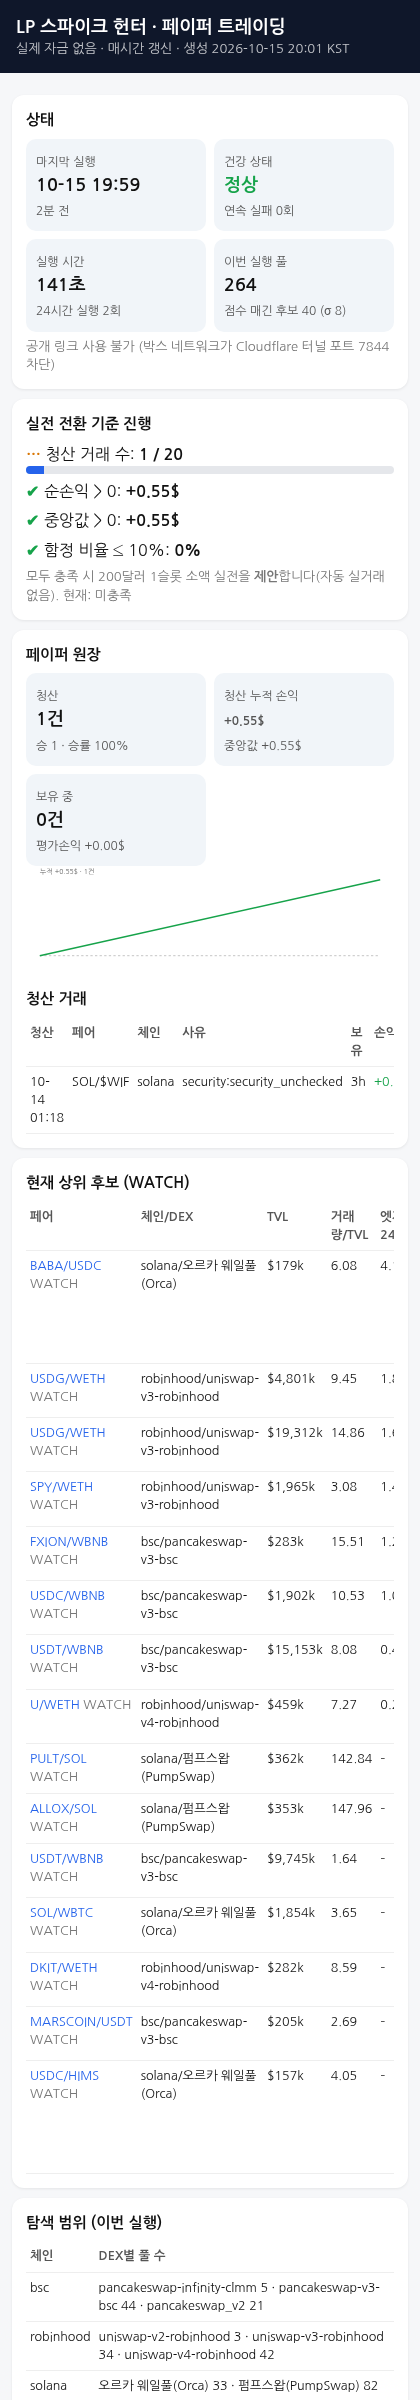
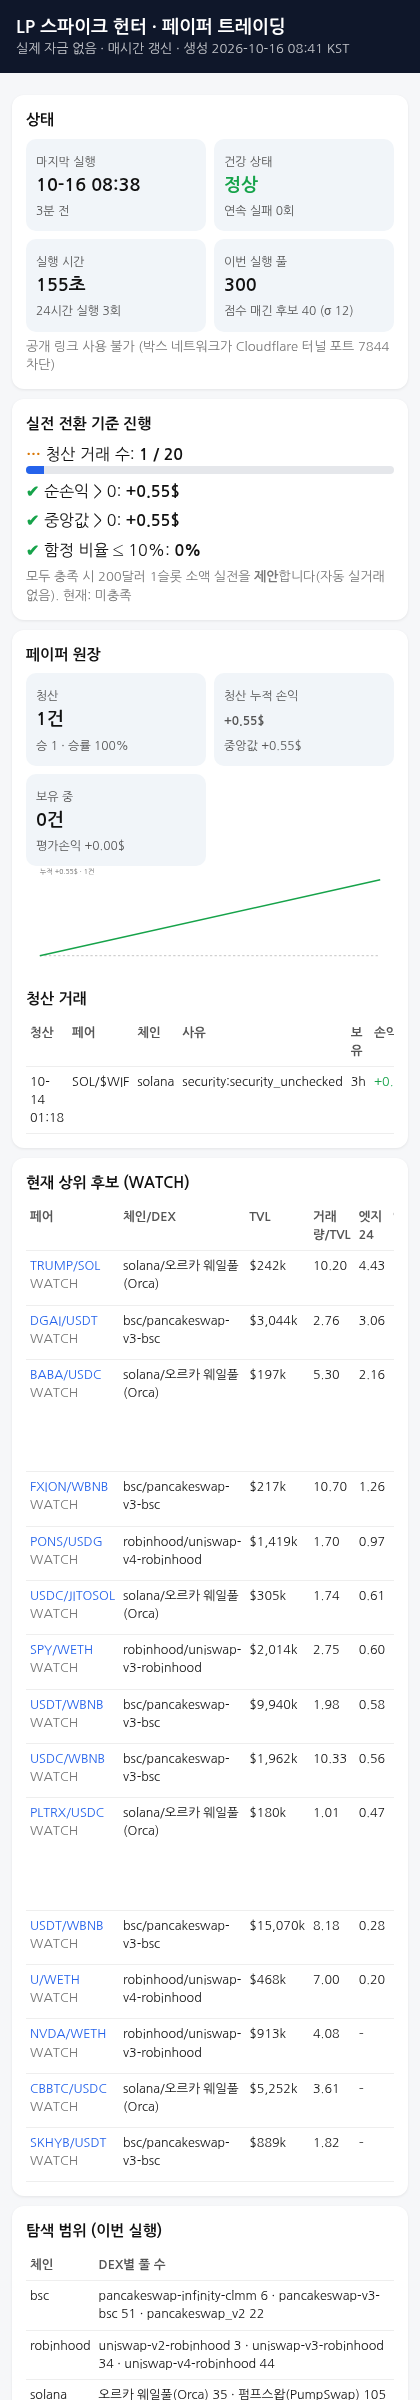
update 2026-10-16 08:41 KST

diff --git a/index.html b/index.html
@@ -12,12 +12,12 @@ th{color:#555;font-weight:600} .scroll{overflow-x:auto} .pos{color:#16a34a} .neg
 .bar{height:8px;background:#e5e7eb;border-radius:4px;overflow:hidden} .bar i{display:block;height:100%;background:#2563eb}
 .chart{width:100%;height:auto} a{color:#2563eb;text-decoration:none} .chg{color:#7c3aed;font-weight:600}
 </style></head><body>
-<header><h1>LP 스파이크 헌터 · 페이퍼 트레이딩</h1><div class="sub">실제 자금 없음 · 매시간 갱신 · 생성 2026-10-15 20:01 KST</div></header><main>
+<header><h1>LP 스파이크 헌터 · 페이퍼 트레이딩</h1><div class="sub">실제 자금 없음 · 매시간 갱신 · 생성 2026-10-16 08:41 KST</div></header><main>
 <div class="card"><h2>상태</h2><div class="grid">
-<div class="kpi"><span>마지막 실행</span><b>10-15 19:59</b><span>2분 전</span></div>
+<div class="kpi"><span>마지막 실행</span><b>10-16 08:38</b><span>3분 전</span></div>
 <div class="kpi"><span>건강 상태</span><b class="ok">정상</b><span>연속 실패 0회</span></div>
-<div class="kpi"><span>실행 시간</span><b>141초</b><span>24시간 실행 2회</span></div>
-<div class="kpi"><span>이번 실행 풀</span><b>264</b><span>점수 매긴 후보 40 (σ 8)</span></div>
+<div class="kpi"><span>실행 시간</span><b>155초</b><span>24시간 실행 3회</span></div>
+<div class="kpi"><span>이번 실행 풀</span><b>300</b><span>점수 매긴 후보 40 (σ 12)</span></div>
 </div><div class="muted" style="margin-top:6px">공개 링크 사용 불가 (박스 네트워크가 Cloudflare 터널 포트 7844 차단)</div></div>
 <div class="card"><h2>실전 전환 기준 진행</h2>
 <div style="margin:6px 0"><b class="warn">…</b> 청산 거래 수: <b>1 / 20</b><div class="bar"><i style="width:5%"></i></div></div>
@@ -35,26 +35,26 @@ th{color:#555;font-weight:600} .scroll{overflow-x:auto} .pos{color:#16a34a} .neg
 </table></div>
 </div>
 <div class="card"><h2>현재 상위 후보 (WATCH)</h2><div class="scroll"><table><tr><th>페어</th><th>체인/DEX</th><th>TVL</th><th>거래량/TVL</th><th>엣지24</th><th>엣지6</th><th>진입 안 하는 이유</th></tr>
-<tr><td><a href='https://www.geckoterminal.com/solana/pools/6EVgUURuvprazVdpd717E9uqruHcqRPbhRKDm5Czdidu'>BABA/USDC</a> <span class='muted'>WATCH</span></td><td>solana/오르카 웨일풀(Orca)</td><td>$179k</td><td>6.08</td><td>4.13</td><td>0.64</td><td><span class="tag">24h 엣지 부족 (edge24&lt;5)</span><span class="tag">6h 엣지 부족 (edge6&lt;5)</span><span class="tag">보안 플래그 (security:mintable|freezable|balance_mutable_authority|transfer_hook_upgradable|top10_holders=58%)</span><span class="tag">유동성 이력 부족(&lt;3h) (k_unsettled(&lt;3h liquidity history))</span><span class="tag">토큰-2022 위험 확장 (t22:BABA.pausableConfig|BABA.permanentDelegate)</span></td></tr>
-<tr><td><a href='https://www.geckoterminal.com/robinhood/pools/0x69bfaf19c9f377bb306a89aed9f6b07e2c1a8d9a'>USDG/WETH</a> <span class='muted'>WATCH</span></td><td>robinhood/uniswap-v3-robinhood</td><td>$4,801k</td><td>9.45</td><td>1.89</td><td>0.47</td><td><span class="tag">24h 엣지 부족 (edge24&lt;5)</span><span class="tag">6h 엣지 부족 (edge6&lt;5)</span><span class="tag">유동성 이력 부족(&lt;3h) (k_unsettled(&lt;3h liquidity history))</span></td></tr>
-<tr><td><a href='https://www.geckoterminal.com/robinhood/pools/0x52e65b17fb6e5ba00ed806f37afcd2daa50271ca'>USDG/WETH</a> <span class='muted'>WATCH</span></td><td>robinhood/uniswap-v3-robinhood</td><td>$19,312k</td><td>14.86</td><td>1.68</td><td>0.68</td><td><span class="tag">24h 엣지 부족 (edge24&lt;5)</span><span class="tag">6h 엣지 부족 (edge6&lt;5)</span><span class="tag">유동성 이력 부족(&lt;3h) (k_unsettled(&lt;3h liquidity history))</span></td></tr>
-<tr><td><a href='https://www.geckoterminal.com/robinhood/pools/0xddcbba3666f578e3f09516f21ff85bfee859ab5e'>SPY/WETH</a> <span class='muted'>WATCH</span></td><td>robinhood/uniswap-v3-robinhood</td><td>$1,965k</td><td>3.08</td><td>1.48</td><td>0.58</td><td><span class="tag">24h 엣지 부족 (edge24&lt;5)</span><span class="tag">6h 엣지 부족 (edge6&lt;5)</span><span class="tag">수수료&lt;비용 (fee24&lt;2x_cost)</span><span class="tag">유동성 이력 부족(&lt;3h) (k_unsettled(&lt;3h liquidity history))</span></td></tr>
-<tr><td><a href='https://www.geckoterminal.com/bsc/pools/0x02eda8dbc97a0c9adfbbfab589430d76a7c7f5b6'>FXION/WBNB</a> <span class='muted'>WATCH</span></td><td>bsc/pancakeswap-v3-bsc</td><td>$283k</td><td>15.51</td><td>1.23</td><td>0.85</td><td><span class="tag">24h 엣지 부족 (edge24&lt;5)</span><span class="tag">6h 엣지 부족 (edge6&lt;5)</span><span class="tag">수수료&lt;비용 (fee24&lt;2x_cost)</span><span class="tag">유동성 이력 부족(&lt;3h) (k_unsettled(&lt;3h liquidity history))</span></td></tr>
-<tr><td><a href='https://www.geckoterminal.com/bsc/pools/0xf2688fb5b81049dfb7703ada5e770543770612c4'>USDC/WBNB</a> <span class='muted'>WATCH</span></td><td>bsc/pancakeswap-v3-bsc</td><td>$1,902k</td><td>10.53</td><td>1.01</td><td>0.97</td><td><span class="tag">24h 엣지 부족 (edge24&lt;5)</span><span class="tag">6h 엣지 부족 (edge6&lt;5)</span><span class="tag">수수료&lt;비용 (fee24&lt;2x_cost)</span><span class="tag">유동성 이력 부족(&lt;3h) (k_unsettled(&lt;3h liquidity history))</span></td></tr>
-<tr><td><a href='https://www.geckoterminal.com/bsc/pools/0x172fcd41e0913e95784454622d1c3724f546f849'>USDT/WBNB</a> <span class='muted'>WATCH</span></td><td>bsc/pancakeswap-v3-bsc</td><td>$15,153k</td><td>8.08</td><td>0.49</td><td>0.34</td><td><span class="tag">24h 엣지 부족 (edge24&lt;5)</span><span class="tag">6h 엣지 부족 (edge6&lt;5)</span><span class="tag">수수료&lt;비용 (fee24&lt;2x_cost)</span><span class="tag">유동성 이력 부족(&lt;3h) (k_unsettled(&lt;3h liquidity history))</span></td></tr>
-<tr><td><a href='https://www.geckoterminal.com/robinhood/pools/0xa5d2fa75a050327b6a0e3a6020994fea5a9df413e0e031045399411e1616b2e3'>U/WETH</a> <span class='muted'>WATCH</span></td><td>robinhood/uniswap-v4-robinhood</td><td>$459k</td><td>7.27</td><td>0.24</td><td>0.15</td><td><span class="tag">24h 엣지 부족 (edge24&lt;5)</span><span class="tag">6h 엣지 부족 (edge6&lt;5)</span><span class="tag">보안 플래그 (security:security_unchecked)</span><span class="tag">수수료&lt;비용 (fee24&lt;2x_cost)</span><span class="tag">유동성 이력 부족(&lt;3h) (k_unsettled(&lt;3h liquidity history))</span></td></tr>
-<tr><td><a href='https://www.geckoterminal.com/solana/pools/2rpNBXob38sX7yuK5aQGt8u9vNjPxNVes4qmmPX7mwFf'>PULT/SOL</a> <span class='muted'>WATCH</span></td><td>solana/펌프스왑(PumpSwap)</td><td>$362k</td><td>142.84</td><td>–</td><td>–</td><td><span class="tag">변동성 데이터 없음</span><span class="tag">24h 엣지 부족 (edge24&lt;5)</span><span class="tag">6h 엣지 부족 (edge6&lt;5)</span><span class="tag">너무 신규</span></td></tr>
-<tr><td><a href='https://www.geckoterminal.com/solana/pools/4MJ9A8Uy9xW3szjXd9jMdwNLEr4EpR8v1Aiep55PVPBg'>ALLOX/SOL</a> <span class='muted'>WATCH</span></td><td>solana/펌프스왑(PumpSwap)</td><td>$353k</td><td>147.96</td><td>–</td><td>–</td><td><span class="tag">변동성 데이터 없음</span><span class="tag">24h 엣지 부족 (edge24&lt;5)</span><span class="tag">6h 엣지 부족 (edge6&lt;5)</span><span class="tag">너무 신규</span></td></tr>
-<tr><td><a href='https://www.geckoterminal.com/bsc/pools/0x36696169c63e42cd08ce11f5deebbcebae652050'>USDT/WBNB</a> <span class='muted'>WATCH</span></td><td>bsc/pancakeswap-v3-bsc</td><td>$9,745k</td><td>1.64</td><td>–</td><td>–</td><td><span class="tag">변동성 데이터 없음</span><span class="tag">24h 엣지 부족 (edge24&lt;5)</span><span class="tag">6h 엣지 부족 (edge6&lt;5)</span><span class="tag">유동성 이력 부족(&lt;3h) (k_unsettled(&lt;3h liquidity history))</span></td></tr>
-<tr><td><a href='https://www.geckoterminal.com/solana/pools/B5EwJVDuAauzUEEdwvbuXzbFFgEYnUqqS37TUM1c4PQA'>SOL/WBTC</a> <span class='muted'>WATCH</span></td><td>solana/오르카 웨일풀(Orca)</td><td>$1,854k</td><td>3.65</td><td>–</td><td>–</td><td><span class="tag">변동성 데이터 없음</span><span class="tag">24h 엣지 부족 (edge24&lt;5)</span><span class="tag">6h 엣지 부족 (edge6&lt;5)</span><span class="tag">유동성 이력 부족(&lt;3h) (k_unsettled(&lt;3h liquidity history))</span></td></tr>
-<tr><td><a href='https://www.geckoterminal.com/robinhood/pools/0x56ab58ffed0f9dc7baf1eb099d66199c99dae96114997cae0672b82cadef5451'>DKIT/WETH</a> <span class='muted'>WATCH</span></td><td>robinhood/uniswap-v4-robinhood</td><td>$282k</td><td>8.59</td><td>–</td><td>–</td><td><span class="tag">변동성 데이터 없음</span><span class="tag">24h 엣지 부족 (edge24&lt;5)</span><span class="tag">6h 엣지 부족 (edge6&lt;5)</span><span class="tag">유동성 이력 부족(&lt;3h) (k_unsettled(&lt;3h liquidity history))</span></td></tr>
-<tr><td><a href='https://www.geckoterminal.com/bsc/pools/0x14ca9d552ed2cf0d5dfd1f89bc6793a464e2ed16'>MARSCOIN/USDT</a> <span class='muted'>WATCH</span></td><td>bsc/pancakeswap-v3-bsc</td><td>$205k</td><td>2.69</td><td>–</td><td>–</td><td><span class="tag">변동성 데이터 없음</span><span class="tag">24h 엣지 부족 (edge24&lt;5)</span><span class="tag">6h 엣지 부족 (edge6&lt;5)</span><span class="tag">보안 플래그 (security:security_unchecked)</span><span class="tag">유동성 이력 부족(&lt;3h) (k_unsettled(&lt;3h liquidity history))</span></td></tr>
-<tr><td><a href='https://www.geckoterminal.com/solana/pools/7iqWWNjubSTjmWXk9eYJViDLZjBN2KjrYt5Z9j8n8exQ'>USDC/HIMS</a> <span class='muted'>WATCH</span></td><td>solana/오르카 웨일풀(Orca)</td><td>$157k</td><td>4.05</td><td>–</td><td>–</td><td><span class="tag">변동성 데이터 없음</span><span class="tag">24h 엣지 부족 (edge24&lt;5)</span><span class="tag">6h 엣지 부족 (edge6&lt;5)</span><span class="tag">보안 플래그 (security:mintable|freezable|balance_mutable_authority|transfer_hook_upgradable|top10_holders=66%)</span><span class="tag">유동성 이력 부족(&lt;3h) (k_unsettled(&lt;3h liquidity history))</span><span class="tag">토큰-2022 위험 확장 (t22:HIMS.pausableConfig|HIMS.permanentDelegate)</span></td></tr>
+<tr><td><a href='https://www.geckoterminal.com/solana/pools/Ckp1kwZqosaLU1h3zWtuaMBubyWM7LX3cxYezRVin7p2'>TRUMP/SOL</a> <span class='muted'>WATCH</span></td><td>solana/오르카 웨일풀(Orca)</td><td>$242k</td><td>10.20</td><td>4.43</td><td>14.71</td><td><span class="tag">24h 엣지 부족 (edge24&lt;5)</span><span class="tag">보안 플래그 (security:top10_holders=88%)</span><span class="tag">유동성 이력 부족(&lt;3h) (k_unsettled(&lt;3h liquidity history))</span></td></tr>
+<tr><td><a href='https://www.geckoterminal.com/bsc/pools/0x0e6e1f47c64f517fc9dc35698718c7dfc708d534'>DGAI/USDT</a> <span class='muted'>WATCH</span></td><td>bsc/pancakeswap-v3-bsc</td><td>$3,044k</td><td>2.76</td><td>3.06</td><td>2.42</td><td><span class="tag">24h 엣지 부족 (edge24&lt;5)</span><span class="tag">6h 엣지 부족 (edge6&lt;5)</span><span class="tag">보안 플래그 (security:mintable)</span><span class="tag">수수료&lt;비용 (fee24&lt;2x_cost)</span><span class="tag">유동성 이력 부족(&lt;3h) (k_unsettled(&lt;3h liquidity history))</span></td></tr>
+<tr><td><a href='https://www.geckoterminal.com/solana/pools/6EVgUURuvprazVdpd717E9uqruHcqRPbhRKDm5Czdidu'>BABA/USDC</a> <span class='muted'>WATCH</span></td><td>solana/오르카 웨일풀(Orca)</td><td>$197k</td><td>5.30</td><td>2.16</td><td>0.29</td><td><span class="tag">24h 엣지 부족 (edge24&lt;5)</span><span class="tag">6h 엣지 부족 (edge6&lt;5)</span><span class="tag">보안 플래그 (security:mintable|freezable|balance_mutable_authority|transfer_hook_upgradable|top10_holders=58%)</span><span class="tag">수수료&lt;비용 (fee24&lt;2x_cost)</span><span class="tag">유동성 이력 부족(&lt;3h) (k_unsettled(&lt;3h liquidity history))</span><span class="tag">토큰-2022 위험 확장 (t22:BABA.pausableConfig|BABA.permanentDelegate)</span></td></tr>
+<tr><td><a href='https://www.geckoterminal.com/bsc/pools/0x02eda8dbc97a0c9adfbbfab589430d76a7c7f5b6'>FXION/WBNB</a> <span class='muted'>WATCH</span></td><td>bsc/pancakeswap-v3-bsc</td><td>$217k</td><td>10.70</td><td>1.26</td><td>0.35</td><td><span class="tag">24h 엣지 부족 (edge24&lt;5)</span><span class="tag">6h 엣지 부족 (edge6&lt;5)</span><span class="tag">수수료&lt;비용 (fee24&lt;2x_cost)</span><span class="tag">유동성 이력 부족(&lt;3h) (k_unsettled(&lt;3h liquidity history))</span></td></tr>
+<tr><td><a href='https://www.geckoterminal.com/robinhood/pools/0x4be9657ec9002e528f4f17a5c43edc525a07f888f7b180c2afbf75e096c4f38a'>PONS/USDG</a> <span class='muted'>WATCH</span></td><td>robinhood/uniswap-v4-robinhood</td><td>$1,419k</td><td>1.70</td><td>0.97</td><td>0.39</td><td><span class="tag">24h 엣지 부족 (edge24&lt;5)</span><span class="tag">6h 엣지 부족 (edge6&lt;5)</span><span class="tag">보안 플래그 (security:security_unchecked)</span><span class="tag">유동성 이력 부족(&lt;3h) (k_unsettled(&lt;3h liquidity history))</span></td></tr>
+<tr><td><a href='https://www.geckoterminal.com/solana/pools/5hWJUNTtEtKmKgDXpthJXXRRmJrz5vJ7uJzrUNVdrwLg'>USDC/JITOSOL</a> <span class='muted'>WATCH</span></td><td>solana/오르카 웨일풀(Orca)</td><td>$305k</td><td>1.74</td><td>0.61</td><td>0.16</td><td><span class="tag">24h 엣지 부족 (edge24&lt;5)</span><span class="tag">6h 엣지 부족 (edge6&lt;5)</span><span class="tag">수수료&lt;비용 (fee24&lt;2x_cost)</span><span class="tag">유동성 이력 부족(&lt;3h) (k_unsettled(&lt;3h liquidity history))</span></td></tr>
+<tr><td><a href='https://www.geckoterminal.com/robinhood/pools/0xddcbba3666f578e3f09516f21ff85bfee859ab5e'>SPY/WETH</a> <span class='muted'>WATCH</span></td><td>robinhood/uniswap-v3-robinhood</td><td>$2,014k</td><td>2.75</td><td>0.60</td><td>0.28</td><td><span class="tag">24h 엣지 부족 (edge24&lt;5)</span><span class="tag">6h 엣지 부족 (edge6&lt;5)</span><span class="tag">보안 플래그 (security:security_unchecked)</span><span class="tag">수수료&lt;비용 (fee24&lt;2x_cost)</span><span class="tag">유동성 이력 부족(&lt;3h) (k_unsettled(&lt;3h liquidity history))</span></td></tr>
+<tr><td><a href='https://www.geckoterminal.com/bsc/pools/0x36696169c63e42cd08ce11f5deebbcebae652050'>USDT/WBNB</a> <span class='muted'>WATCH</span></td><td>bsc/pancakeswap-v3-bsc</td><td>$9,940k</td><td>1.98</td><td>0.58</td><td>0.09</td><td><span class="tag">24h 엣지 부족 (edge24&lt;5)</span><span class="tag">6h 엣지 부족 (edge6&lt;5)</span><span class="tag">수수료&lt;비용 (fee24&lt;2x_cost)</span><span class="tag">유동성 이력 부족(&lt;3h) (k_unsettled(&lt;3h liquidity history))</span></td></tr>
+<tr><td><a href='https://www.geckoterminal.com/bsc/pools/0xf2688fb5b81049dfb7703ada5e770543770612c4'>USDC/WBNB</a> <span class='muted'>WATCH</span></td><td>bsc/pancakeswap-v3-bsc</td><td>$1,962k</td><td>10.33</td><td>0.56</td><td>0.25</td><td><span class="tag">24h 엣지 부족 (edge24&lt;5)</span><span class="tag">6h 엣지 부족 (edge6&lt;5)</span><span class="tag">수수료&lt;비용 (fee24&lt;2x_cost)</span><span class="tag">유동성 이력 부족(&lt;3h) (k_unsettled(&lt;3h liquidity history))</span></td></tr>
+<tr><td><a href='https://www.geckoterminal.com/solana/pools/5bY2fh9rgTYaBDxFGFJmddhaDkm5zwiWP6b2ZsjJZyP'>PLTRX/USDC</a> <span class='muted'>WATCH</span></td><td>solana/오르카 웨일풀(Orca)</td><td>$180k</td><td>1.01</td><td>0.47</td><td>0.85</td><td><span class="tag">24h 엣지 부족 (edge24&lt;5)</span><span class="tag">6h 엣지 부족 (edge6&lt;5)</span><span class="tag">보안 플래그 (security:mintable|freezable|balance_mutable_authority|transfer_hook_upgradable|top10_holders=98%)</span><span class="tag">수수료&lt;비용 (fee24&lt;2x_cost)</span><span class="tag">유동성 이력 부족(&lt;3h) (k_unsettled(&lt;3h liquidity history))</span><span class="tag">토큰-2022 위험 확장 (t22:PLTRX.pausableConfig|PLTRX.permanentDelegate)</span></td></tr>
+<tr><td><a href='https://www.geckoterminal.com/bsc/pools/0x172fcd41e0913e95784454622d1c3724f546f849'>USDT/WBNB</a> <span class='muted'>WATCH</span></td><td>bsc/pancakeswap-v3-bsc</td><td>$15,070k</td><td>8.18</td><td>0.28</td><td>0.13</td><td><span class="tag">24h 엣지 부족 (edge24&lt;5)</span><span class="tag">6h 엣지 부족 (edge6&lt;5)</span><span class="tag">수수료&lt;비용 (fee24&lt;2x_cost)</span><span class="tag">유동성 이력 부족(&lt;3h) (k_unsettled(&lt;3h liquidity history))</span></td></tr>
+<tr><td><a href='https://www.geckoterminal.com/robinhood/pools/0xa5d2fa75a050327b6a0e3a6020994fea5a9df413e0e031045399411e1616b2e3'>U/WETH</a> <span class='muted'>WATCH</span></td><td>robinhood/uniswap-v4-robinhood</td><td>$468k</td><td>7.00</td><td>0.20</td><td>0.07</td><td><span class="tag">24h 엣지 부족 (edge24&lt;5)</span><span class="tag">6h 엣지 부족 (edge6&lt;5)</span><span class="tag">보안 플래그 (security:security_unchecked)</span><span class="tag">수수료&lt;비용 (fee24&lt;2x_cost)</span><span class="tag">유동성 이력 부족(&lt;3h) (k_unsettled(&lt;3h liquidity history))</span></td></tr>
+<tr><td><a href='https://www.geckoterminal.com/robinhood/pools/0x62ab521f71431f78ac374cdbadc6cda3c8916b6c'>NVDA/WETH</a> <span class='muted'>WATCH</span></td><td>robinhood/uniswap-v3-robinhood</td><td>$913k</td><td>4.08</td><td>–</td><td>–</td><td><span class="tag">변동성 데이터 없음</span><span class="tag">24h 엣지 부족 (edge24&lt;5)</span><span class="tag">6h 엣지 부족 (edge6&lt;5)</span><span class="tag">보안 플래그 (security:security_unchecked)</span><span class="tag">유동성 이력 부족(&lt;3h) (k_unsettled(&lt;3h liquidity history))</span></td></tr>
+<tr><td><a href='https://www.geckoterminal.com/solana/pools/HxA6SKW5qA4o12fjVgTpXdq2YnZ5Zv1s7SB4FFomsyLM'>CBBTC/USDC</a> <span class='muted'>WATCH</span></td><td>solana/오르카 웨일풀(Orca)</td><td>$5,252k</td><td>3.61</td><td>–</td><td>–</td><td><span class="tag">변동성 데이터 없음</span><span class="tag">24h 엣지 부족 (edge24&lt;5)</span><span class="tag">6h 엣지 부족 (edge6&lt;5)</span><span class="tag">유동성 이력 부족(&lt;3h) (k_unsettled(&lt;3h liquidity history))</span></td></tr>
+<tr><td><a href='https://www.geckoterminal.com/bsc/pools/0xd7d30f434b12f7ed9b0ae11ff1c754745a10ad52'>SKHYB/USDT</a> <span class='muted'>WATCH</span></td><td>bsc/pancakeswap-v3-bsc</td><td>$889k</td><td>1.82</td><td>–</td><td>–</td><td><span class="tag">변동성 데이터 없음</span><span class="tag">24h 엣지 부족 (edge24&lt;5)</span><span class="tag">6h 엣지 부족 (edge6&lt;5)</span><span class="tag">보안 플래그 (security:top10_holders=88%)</span><span class="tag">유동성 이력 부족(&lt;3h) (k_unsettled(&lt;3h liquidity history))</span></td></tr>
 </table></div></div>
 <div class="card"><h2>탐색 범위 (이번 실행)</h2><table><tr><th>체인</th><th>DEX별 풀 수</th></tr>
-<tr><td>bsc</td><td>pancakeswap-infinity-clmm 5 · pancakeswap-v3-bsc 44 · pancakeswap_v2 21</td></tr>
-<tr><td>robinhood</td><td>uniswap-v2-robinhood 3 · uniswap-v3-robinhood 34 · uniswap-v4-robinhood 42</td></tr>
-<tr><td>solana</td><td>오르카 웨일풀(Orca) 33 · 펌프스왑(PumpSwap) 82</td></tr>
+<tr><td>bsc</td><td>pancakeswap-infinity-clmm 6 · pancakeswap-v3-bsc 51 · pancakeswap_v2 22</td></tr>
+<tr><td>robinhood</td><td>uniswap-v2-robinhood 3 · uniswap-v3-robinhood 34 · uniswap-v4-robinhood 44</td></tr>
+<tr><td>solana</td><td>오르카 웨일풀(Orca) 35 · 펌프스왑(PumpSwap) 105</td></tr>
 </table></div>
 <div class="card"><h2>현재 규칙 (자동 튜닝 대상)</h2><table>
 <tr><td>진입 엣지 기준</td><td><b>5</b></td></tr>
@@ -66,6 +66,7 @@ th{color:#555;font-weight:600} .scroll{overflow-x:auto} .pos{color:#16a34a} .neg
 <tr><td>수수료/비용 배수</td><td><b>2</b></td></tr>
 <tr><td>급증 필터</td><td><b>0</b></td></tr>
 </table><h2 style="margin-top:12px">튜닝 기록 (최근)</h2>
+<div style="margin:6px 0;font-size:13px"><b class="muted">2026-10-16 08:41 KST</b> 유지 2026-10-16 08:41 KST: {&#x27;E&#x27;: 5, &#x27;W&#x27;: 0.15, &#x27;H&#x27;: 48, &#x27;X&#x27;: 1.0, &#x27;LL&#x27;: 0.3, &#x27;T&#x27;: 1.0, &#x27;FC&#x27;: 2} 유지. 이유: no improve (mean +7.11%→+7.06%, median +3.21%→+3.08%). 현재 OOS n=53 hit 81% mean +7.11% median +3.21% Σ $+753 / 후보 {&#x27;E&#x27;: 5, &#x27;W&#x27;: 0.15, &#x27;H&#x27;: 48, &#x27;X&#x27;: 0.5, &#x27;LL&#x27;: 0.3, &#x27;T&#x27;: 1.0, &#x27;FC&#x27;: 1} OOS n=53 hit 81% mean +7.06% median +3.08% Σ $+748. 페이퍼 청산 1건 Σ $+0.55. (3.7s)</div>
 <div style="margin:6px 0;font-size:13px"><b class="muted">2026-10-15 20:01 KST</b> 유지 2026-10-15 20:01 KST: {&#x27;E&#x27;: 5, &#x27;W&#x27;: 0.15, &#x27;H&#x27;: 48, &#x27;X&#x27;: 1.0, &#x27;LL&#x27;: 0.3, &#x27;T&#x27;: 1.0, &#x27;FC&#x27;: 2} 유지. 이유: no improve (mean +7.11%→+7.06%, median +3.21%→+3.08%). 현재 OOS n=53 hit 81% mean +7.11% median +3.21% Σ $+753 / 후보 {&#x27;E&#x27;: 5, &#x27;W&#x27;: 0.15, &#x27;H&#x27;: 48, &#x27;X&#x27;: 0.5, &#x27;LL&#x27;: 0.3, &#x27;T&#x27;: 1.0, &#x27;FC&#x27;: 1} OOS n=53 hit 81% mean +7.06% median +3.08% Σ $+748. 페이퍼 청산 1건 Σ $+0.55. (3.6s)</div>
 <div style="margin:6px 0;font-size:13px"><b class="muted">2026-10-15 16:23 KST</b> 유지 2026-10-15 16:23 KST: {&#x27;E&#x27;: 5, &#x27;W&#x27;: 0.15, &#x27;H&#x27;: 48, &#x27;X&#x27;: 1.0, &#x27;LL&#x27;: 0.3, &#x27;T&#x27;: 1.0, &#x27;FC&#x27;: 2} 유지. 이유: no improve (mean +7.11%→+7.06%, median +3.21%→+3.08%). 현재 OOS n=53 hit 81% mean +7.11% median +3.21% Σ $+753 / 후보 {&#x27;E&#x27;: 5, &#x27;W&#x27;: 0.15, &#x27;H&#x27;: 48, &#x27;X&#x27;: 0.5, &#x27;LL&#x27;: 0.3, &#x27;T&#x27;: 1.0, &#x27;FC&#x27;: 1} OOS n=53 hit 81% mean +7.06% median +3.08% Σ $+748. 페이퍼 청산 1건 Σ $+0.55. (4.1s)</div>
 <div style="margin:6px 0;font-size:13px"><b class="muted">2026-10-14 17:26 KST</b> 유지 2026-10-14 17:26 KST: {&#x27;E&#x27;: 5, &#x27;W&#x27;: 0.15, &#x27;H&#x27;: 48, &#x27;X&#x27;: 1.0, &#x27;LL&#x27;: 0.3, &#x27;T&#x27;: 1.0, &#x27;FC&#x27;: 2} 유지. 이유: no improve (mean +7.11%→+7.06%, median +3.21%→+3.08%). 현재 OOS n=53 hit 81% mean +7.11% median +3.21% Σ $+753 / 후보 {&#x27;E&#x27;: 5, &#x27;W&#x27;: 0.15, &#x27;H&#x27;: 48, &#x27;X&#x27;: 0.5, &#x27;LL&#x27;: 0.3, &#x27;T&#x27;: 1.0, &#x27;FC&#x27;: 1} OOS n=53 hit 81% mean +7.06% median +3.08% Σ $+748. 페이퍼 청산 1건 Σ $+0.55. (3.6s)</div>
@@ -80,6 +81,5 @@ th{color:#555;font-weight:600} .scroll{overflow-x:auto} .pos{color:#16a34a} .neg
 <div style="margin:6px 0;font-size:13px"><b class="muted">2026-10-13 11:48 KST</b> 유지 2026-10-13 11:48 KST: {&#x27;E&#x27;: 5, &#x27;W&#x27;: 0.15, &#x27;H&#x27;: 48, &#x27;X&#x27;: 1.0, &#x27;LL&#x27;: 0.3, &#x27;T&#x27;: 1.0, &#x27;FC&#x27;: 2} 유지. 이유: no improve (mean +7.11%→+7.06%, median +3.21%→+3.08%). 현재 OOS n=53 hit 81% mean +7.11% median +3.21% Σ $+753 / 후보 {&#x27;E&#x27;: 5, &#x27;W&#x27;: 0.15, &#x27;H&#x27;: 48, &#x27;X&#x27;: 0.5, &#x27;LL&#x27;: 0.3, &#x27;T&#x27;: 1.0, &#x27;FC&#x27;: 1} OOS n=53 hit 81% mean +7.06% median +3.08% Σ $+748. 페이퍼 청산 0건 Σ $+0.00. (4.0s)</div>
 <div style="margin:6px 0;font-size:13px"><b class="muted">2026-10-08 22:16 KST</b> 유지 2026-10-08 22:16 KST: {&#x27;E&#x27;: 5, &#x27;W&#x27;: 0.15, &#x27;H&#x27;: 48, &#x27;X&#x27;: 1.0, &#x27;LL&#x27;: 0.3, &#x27;T&#x27;: 1.0, &#x27;FC&#x27;: 2} 유지. 이유: no improve (mean +7.11%→+7.06%, median +3.21%→+3.08%). 현재 OOS n=53 hit 81% mean +7.11% median +3.21% Σ $+753 / 후보 {&#x27;E&#x27;: 5, &#x27;W&#x27;: 0.15, &#x27;H&#x27;: 48, &#x27;X&#x27;: 0.5, &#x27;LL&#x27;: 0.3, &#x27;T&#x27;: 1.0, &#x27;FC&#x27;: 1} OOS n=53 hit 81% mean +7.06% median +3.08% Σ $+748. 페이퍼 청산 0건 Σ $+0.00. (5.5s)</div>
 <div style="margin:6px 0;font-size:13px"><b class="muted">2026-10-08 19:00 KST</b> 유지 2026-10-08 19:00 KST: {&#x27;E&#x27;: 5, &#x27;W&#x27;: 0.15, &#x27;H&#x27;: 48, &#x27;X&#x27;: 1.0, &#x27;LL&#x27;: 0.3, &#x27;T&#x27;: 1.0, &#x27;FC&#x27;: 2} 유지. 이유: no improve (mean +7.11%→+7.06%, median +3.21%→+3.08%). 현재 OOS n=53 hit 81% mean +7.11% median +3.21% Σ $+753 / 후보 {&#x27;E&#x27;: 5, &#x27;W&#x27;: 0.15, &#x27;H&#x27;: 48, &#x27;X&#x27;: 0.5, &#x27;LL&#x27;: 0.3, &#x27;T&#x27;: 1.0, &#x27;FC&#x27;: 1} OOS n=53 hit 81% mean +7.06% median +3.08% Σ $+748. 페이퍼 청산 0건 Σ $+0.00. (5.6s)</div>
-<div style="margin:6px 0;font-size:13px"><b class="muted">2026-10-08 16:03 KST</b> 유지 2026-10-08 16:03 KST: {&#x27;E&#x27;: 5, &#x27;W&#x27;: 0.15, &#x27;H&#x27;: 48, &#x27;X&#x27;: 1.0, &#x27;LL&#x27;: 0.3, &#x27;T&#x27;: 1.0, &#x27;FC&#x27;: 2} 유지. 이유: no improve (mean +7.11%→+7.06%, median +3.21%→+3.08%). 현재 OOS n=53 hit 81% mean +7.11% median +3.21% Σ $+753 / 후보 {&#x27;E&#x27;: 5, &#x27;W&#x27;: 0.15, &#x27;H&#x27;: 48, &#x27;X&#x27;: 0.5, &#x27;LL&#x27;: 0.3, &#x27;T&#x27;: 1.0, &#x27;FC&#x27;: 1} OOS n=53 hit 81% mean +7.06% median +3.08% Σ $+748. 페이퍼 청산 0건 Σ $+0.00. (4.7s)</div>
 </div>
 <div class="muted" style="text-align:center;margin:16px">페이퍼(가상) 결과만 표시합니다. 지갑·키·자금 정보는 포함하지 않습니다. 5분마다 자동 새로고침.</div></main></body></html>
